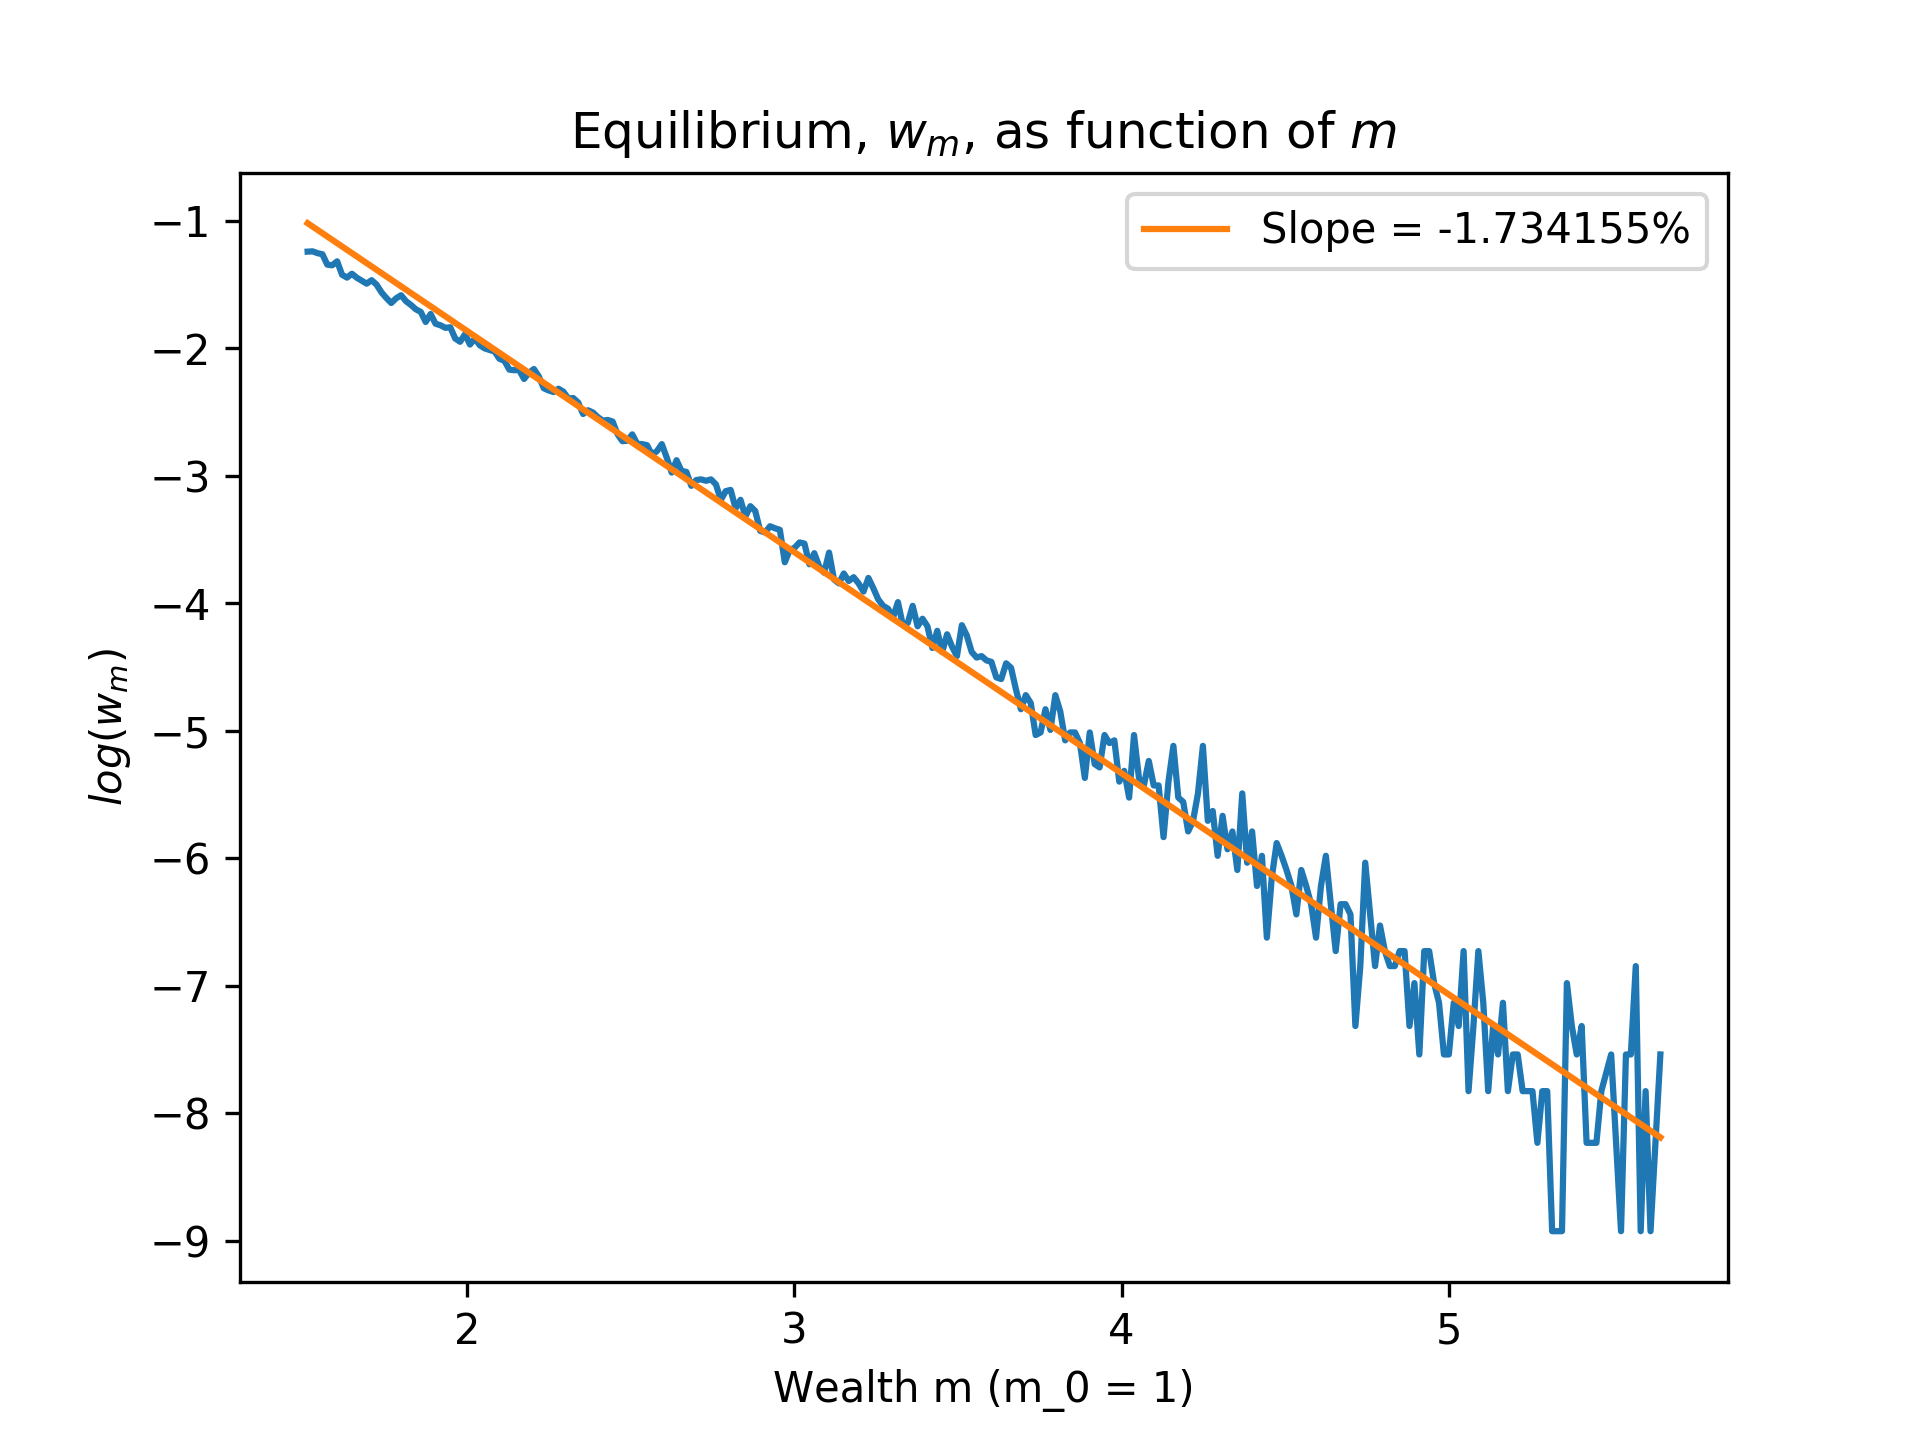
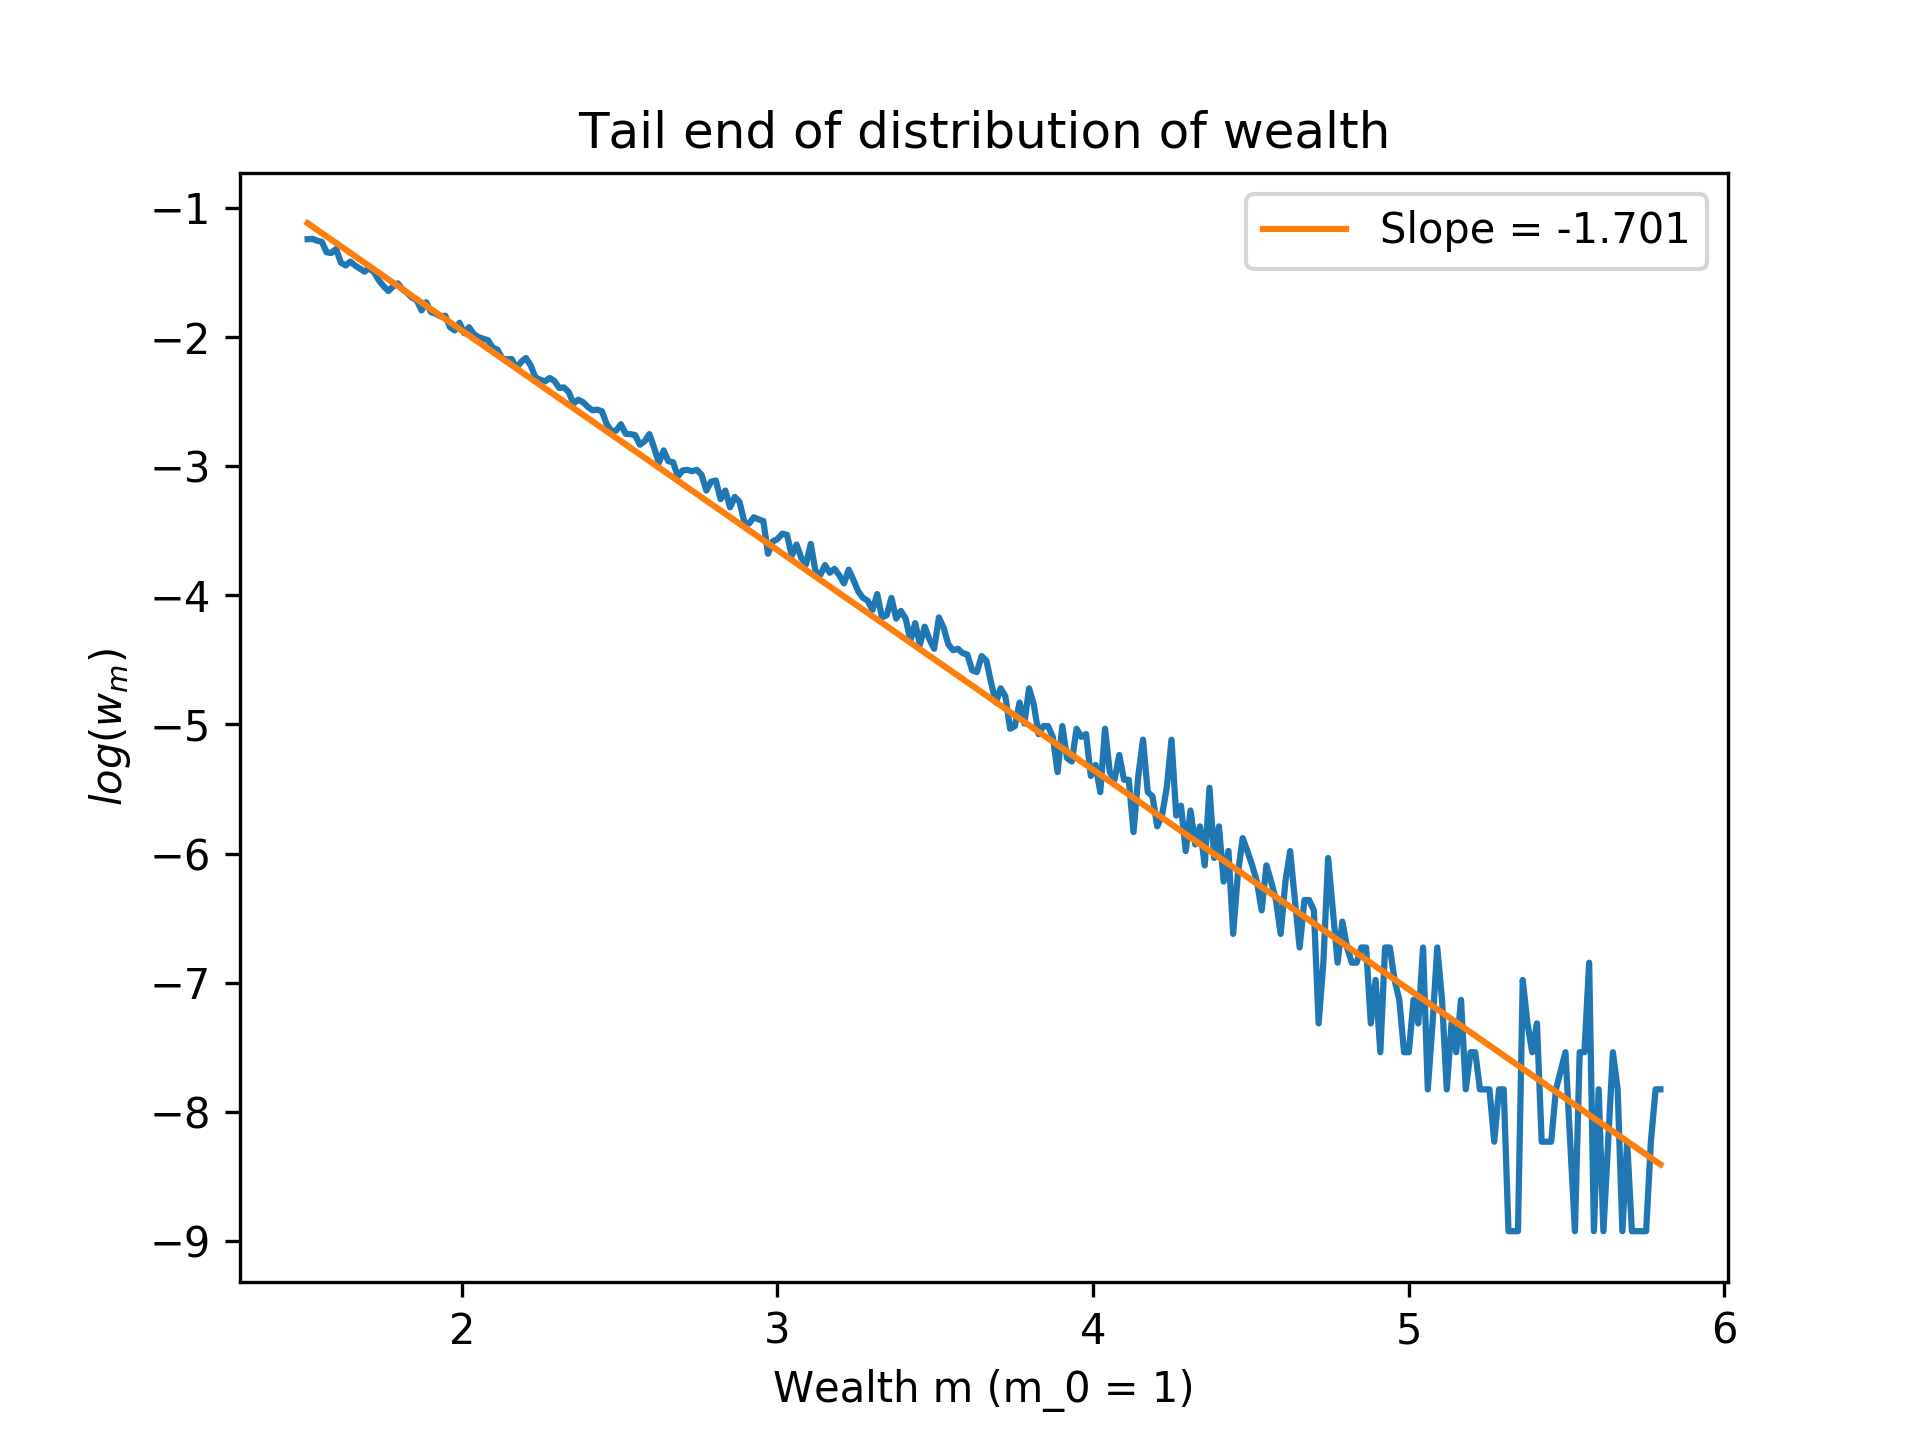
abc plots

diff --git a/Code_Files/Pro5_Plotting_Py3.py b/Code_Files/Pro5_Plotting_Py3.py
@@ -10,8 +10,8 @@ import scipy.stats as stats
 """
 task a)
 """
-abc = input("Which task would you like to run)? a/b/c \n")
-if abc == "a":
+abc = input("Which task would you like to run? a/b/c \n")
+if (abc == "a"):
 	N = range(1,501)
 	Money = []
 	M_R = readarrays("../Results_O/OE_a_Money_distributions_D_5_N_500_0.txt")[0]
@@ -90,21 +90,33 @@ if abc == "c":
 		for i in range(0,len(M_R)):
 			Money1 += list(M_R[i])
 
-		# Three plots of lambda and histograms
+		# Three seperate plots of lambda superimposed on histograms
 		figure()
 		w, m_intervals, patches = hist(Money1,len(N),density=True)
-		plot(m_intervals, f(Lvalues[R],m_intervals), label = "$\lambda = {0}$".format(Lvalues[R]))
-		title("Money distributions for different $\lambda$")
+		plot(m_intervals, f(Lvalues[R],m_intervals), label = "$\lambda = ${0:.2f}".format(float(Lvalues[R])))
+		title("Distribution of wealth for different $\lambda$")
 		xlabel("Wealth m $(m_0 = 1)$")
 		ylabel("$P(m)$")
 		legend()
 		savefig("../Plots/Plots_a_b_c/c_money_dist_hist" + "_L_" + Lvalues[R] + ".png", dpi=300)
 		show()
 
+
 	# All lambdas in the same plot
+	# Lambda = 0
+	N = range(1,501)
+	MoneyL0 = []
+	M_R = readarrays("../Results_O/OE_a_Money_distributions_D_5_N_500_0.txt")[0]
+	for i in range(0,len(M_R)):
+		MoneyL0 += list(M_R[i])
+	fig = figure()
+	wL0, m_intervalsL0, patches = hist(MoneyL0,len(N),density=True)
+	close(fig)
+	plot(m_intervalsL0[13:-418], wL0[13:-417], label = "$\lambda = 0$")
+	# Lambda = 0.25, 0.5, 0.9
 	for i in range(len(Lvalues)):
-		plot(m_intervals, f(Lvalues[i],m_intervals), label = "$\lambda = {0}$".format(Lvalues[i]))
-	title("Money distributions for different $\lambda$")
+		plot(m_intervals, f(Lvalues[i],m_intervals), label = "$\lambda = ${0:.2f}".format(float(Lvalues[i])))
+	title("Distribution of wealth for different $\lambda$")
 	xlabel("Wealth m $(m_0 = 1)$")
 	ylabel("Percent of total participants $P(m)$")
 	legend()
@@ -112,10 +124,21 @@ if abc == "c":
 	show()
 
 
-	# loglog plot, P(m) vs m
+	# loglog plot
+	# Lambda = 0
+	N = range(1,501)
+	MoneyL0 = []
+	M_R = readarrays("../Results_O/OE_a_Money_distributions_D_5_N_500_0.txt")[0]
+	for i in range(0,len(M_R)):
+		MoneyL0 += list(M_R[i])
+	fig = figure()
+	wL0, m_intervalsL0, patches = hist(MoneyL0,len(N),density=True)
+	close(fig)
+	plot(log(m_intervalsL0[13:-418]), wL0[13:-417], label = "$\lambda = 0$")
+	# Lambda = 0.25, 0.5, 0.9
 	for i in range(len(Lvalues)):
-		plot(log(m_intervals), f(Lvalues[i],m_intervals), label = "$\lambda = {0}$".format(Lvalues[i]))
-	title("Loglog plot of money distributions for different $\lambda$")
+		plot(log(m_intervals), f(Lvalues[i],m_intervals), label = "$\lambda = ${0:.2f}".format(float(Lvalues[i])))
+	title("Loglog plot of Distribution of wealth for different $\lambda$")
 	xlabel("log(Wealth m $(m_0 = 1))$")
 	ylabel("$log(P(m))$")
 	yscale("log")
@@ -125,6 +148,7 @@ if abc == "c":
 
 
 	# plotting tail end
+	N = range(1,501)
 	Money2 = []
 	filenames = []
 	filestart = "../Results_O/OE_c_Money_distributions_D_5_N_500"
@@ -142,13 +166,16 @@ if abc == "c":
 		close(fig)
 		m2 = m_intervals2[:-1]
 		p2, w = nlog_arrays(m2, w)
-		x2, y2 = polyfit(exp(p2[100:-50]),w[100:-50],1)
+		x2, y2 = polyfit(exp(p2[70:-40]),w[70:-40],1)
 
-		plot(exp(p2[100:-50]),w[100:-50])
-		plot(exp(p2[100:-50]), x2*exp(p2[100:-50])+y2, label = "Slope = {0:f}%".format(x2))
+		"""
+		Skal vel gjøre noe annet enn å polyfitte?
+		"""
+		plot(exp(p2[100:-40]),w[100:-40])
+		plot(exp(p2[100:-40]), x2*exp(p2[100:-40])+y2, label = "Slope = {0:.3f}".format(x2))
 
 		#plot(p2, f(Lvalues[R],p2), label = "$\lambda = {0}$".format(Lvalues[R]))
-		title("Equilibrium, $w_m$, as function of $m$")
+		title("Tail end of distribution of wealth")
 		xlabel("Wealth m (m_0 = 1)")
 		ylabel("$log(w_m)$")
 		legend()
